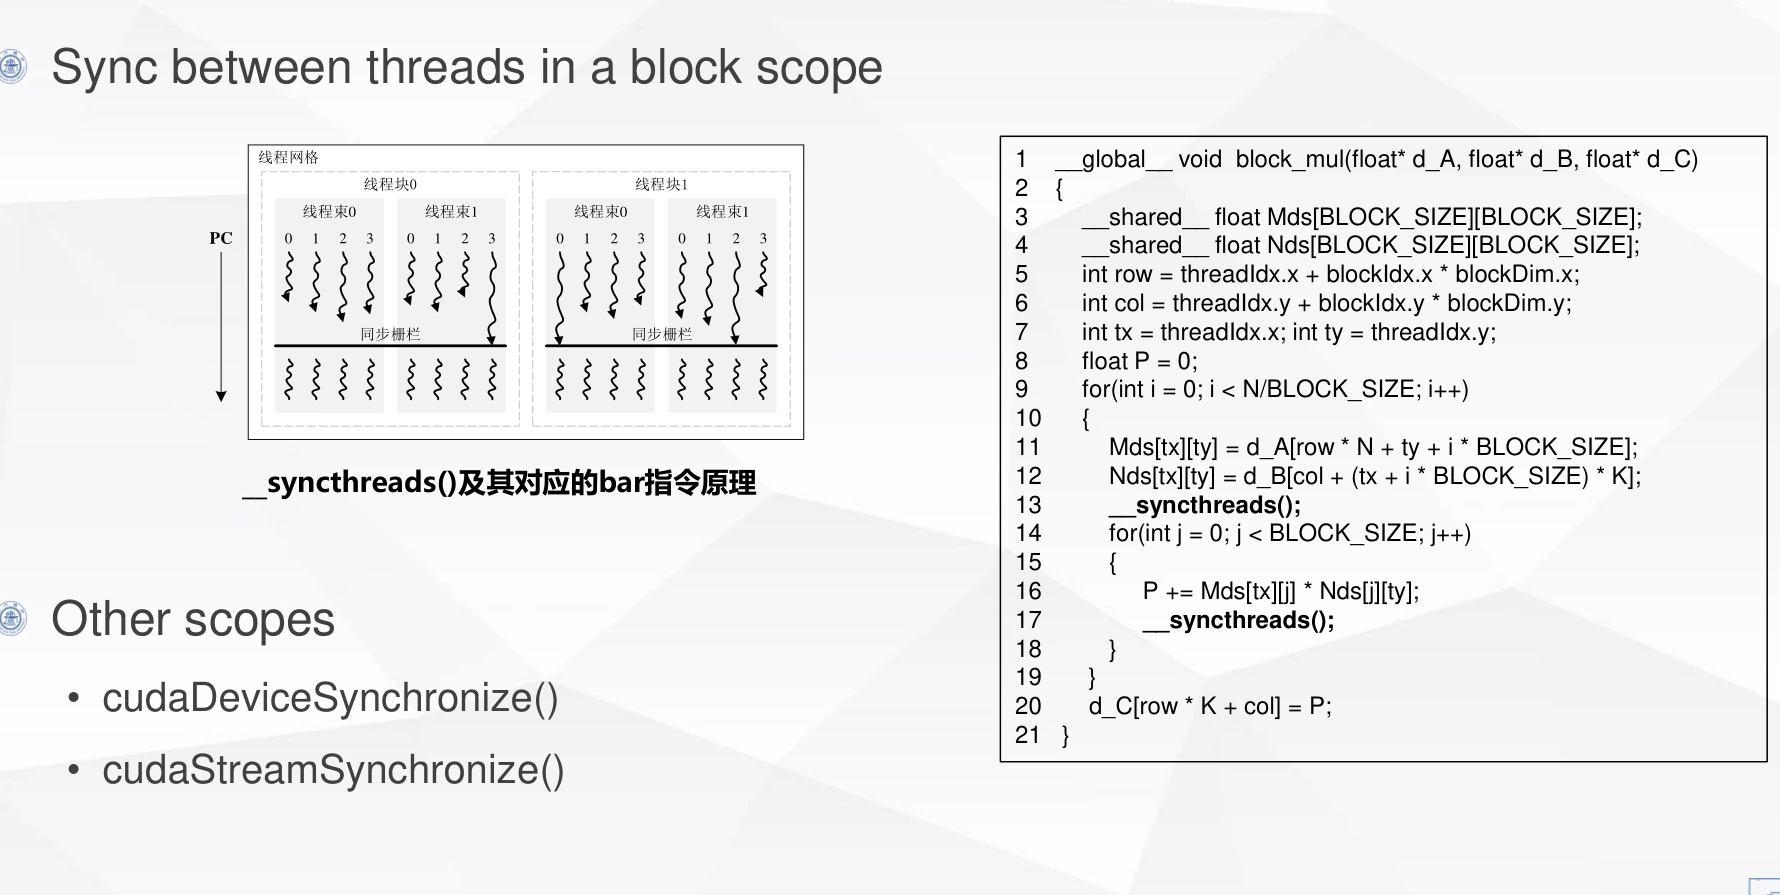
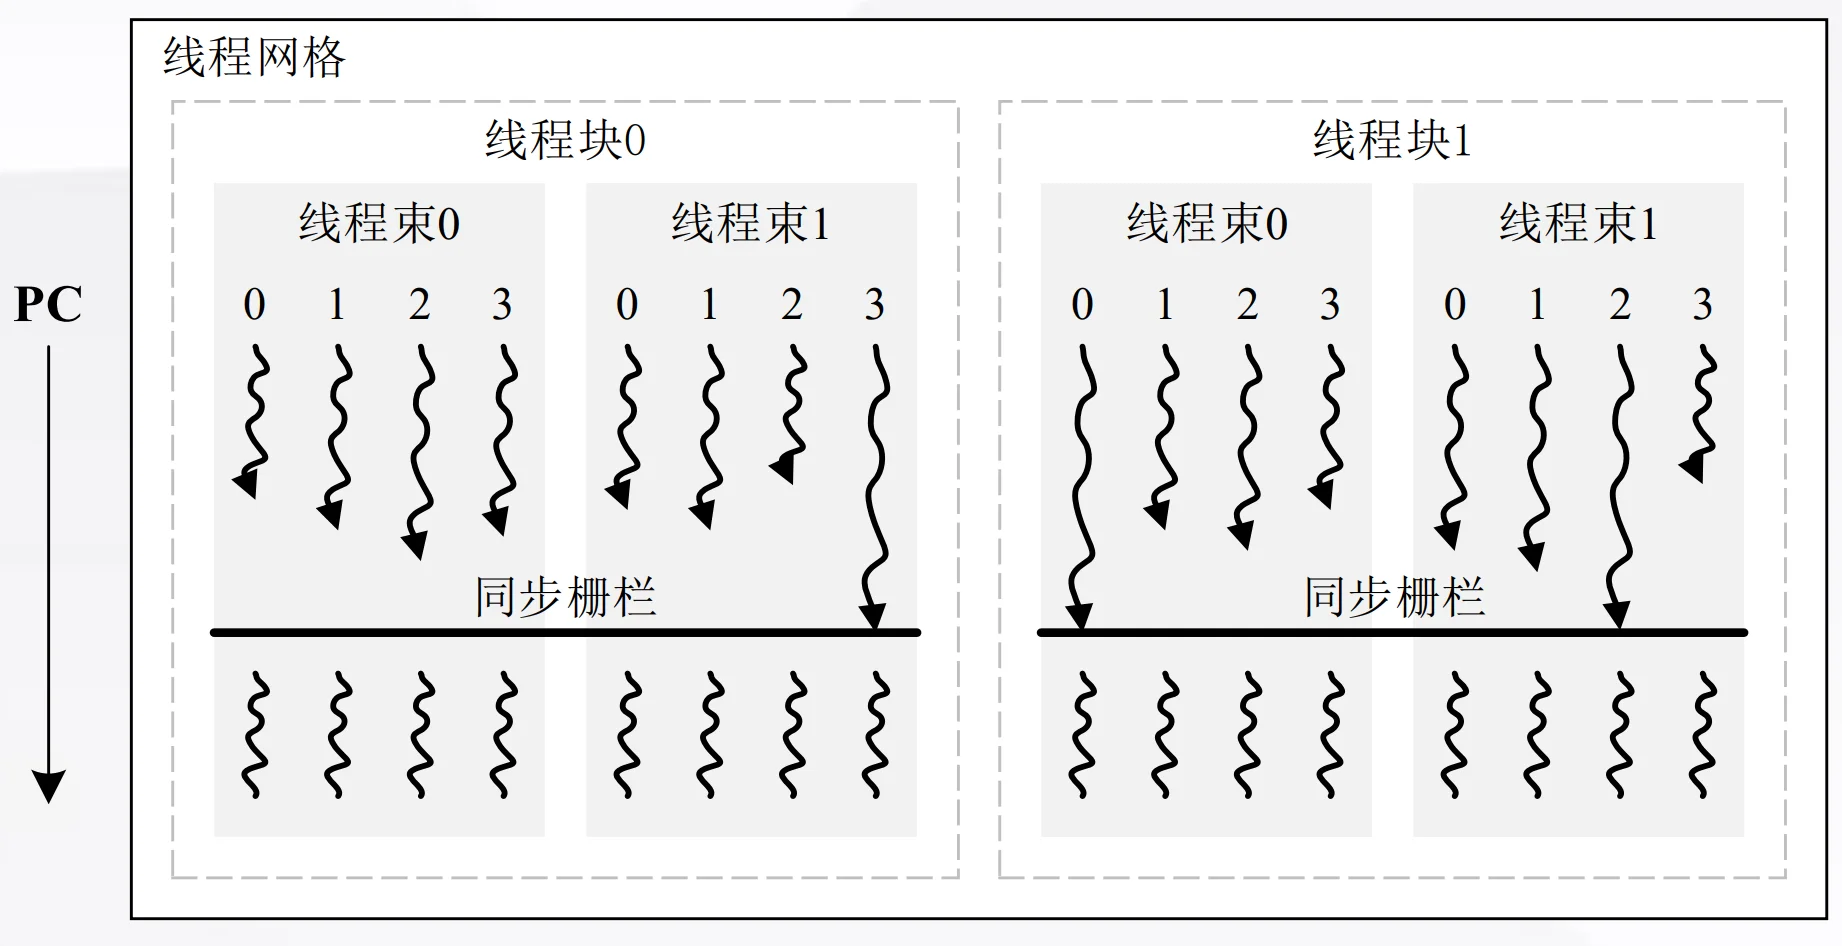
update ntoes

diff --git a/docs/me/DIC/PU/gpgpu2_programming_model/index.md b/docs/me/DIC/PU/gpgpu2_programming_model/index.md
@@ -322,7 +322,9 @@ One kernel with 64 regs/thread and 8KB shm/TB, 128 threads/TB
 
 分别看三个主要限制：
 
-1. **Register file 限制**
+**(1) Register file 限制**
+
+<span style="color: #8B0000;">每个 SM 的 RF 数量固定，每个 thread 分配的 RF 数 VS 可驻留的 thread 数</span>
 
 ```text
 65536 regs / 64 regs/thread = 1024 threads
@@ -331,7 +333,9 @@ One kernel with 64 regs/thread and 8KB shm/TB, 128 threads/TB
 
 也就是说，如果每个 thread 要用 64 个 register，那么 register file 最多支持 `1024` 个 thread 同时驻留；每个 TB 有 `128` 个 thread，因此最多驻留 `8` 个 TB。
 
-2. **Shared memory 限制**
+**(2) Shared memory 限制**
+
+<span style="color: #8B0000;">每个 SM 的 shared memory 总量固定，每个 block 分配的 shared memory VS 可驻留的 thread block 数</span>
 
 ```text
 96KB shm / 8KB shm per TB = 12 TBs
@@ -339,7 +343,9 @@ One kernel with 64 regs/thread and 8KB shm/TB, 128 threads/TB
 
 如果每个 TB 需要 8KB shared memory，那么 shared memory 最多支持 `12` 个 TB 同时驻留。
 
-3. **最大线程数限制**
+**(3) 最大线程数限制**
+
+<span style="color: #8B0000;">SM 限定的最大 TB 数 VS SM 限定的最大 thread 数以及每个 TB 的 thread 数</span>
 
 ```text
 2048 threads / 128 threads/TB = 16 TBs
@@ -361,17 +367,20 @@ min(8, 12, 16, 32) = 8 TBs
 
 ### 2.4 Synchronization
 
-并行程序需要同步，是因为多个 thread 之间经常存在数据依赖：一个 thread 先写入 shared memory，另一个 thread 后续要读取这个结果。如果没有同步，后读的 thread 可能在数据还没写完时就开始读取，得到旧值或未定义值。
+并行程序需要同步，是因为多个 thread 之间经常存在数据依赖：**一个 thread 先写入 shared memory，另一个 thread 后续要读取这个结果**。如果没有同步，后读的 thread 可能在数据还没写完时就开始读取，得到旧值或未定义值。
 
-CUDA 中最基础的同步方式是 block scope 内的同步：
+#### 2.4.1 Thread block 内同步
+
+CUDA 中**最基础的同步方式是 block scope 内的同步**：
 
 ```cpp
 __syncthreads();
 ```
 
-`__syncthreads()` 的含义是：同一个 thread block 内的所有 thread 都必须到达这个同步点，之后这些 thread 才能继续向下执行。课件图里画的同步栅栏（barrier）就是这个意思：先到的 warp / thread 会在 barrier 前等待，直到 block 内其他 thread 也到达。
+`__syncthreads()` 的含义是：**同一个 thread block 内的所有 thread** 都必须到达这个同步点，之后这些 thread 才能继续向下执行。下图里画的同步栅栏（barrier）就是这个意思：先到的 warp / thread 会在 barrier 前等待，直到 block 内其他 thread 也到达。
 
 ![CUDA synchronization](./assets/synchronization.webp)
+
 
 需要注意它的作用域：
 
@@ -379,7 +388,7 @@ __syncthreads();
 - 它不能同步不同 thread block，因为不同 block 可能被调度到不同 SM 上，甚至不一定同时驻留
 - 对应到底层实现，可以理解为 CUDA 编译到类似 `bar` 的同步栅栏指令
 
-课件中的矩阵乘法片段展示了为什么 shared memory 常常需要和同步一起使用：
+下面的矩阵乘法片段展示了为什么 shared memory 常常需要和同步一起使用：
 
 ```cpp
 __shared__ float Mds[BLOCK_SIZE][BLOCK_SIZE];
@@ -390,13 +399,13 @@ Nds[tx][ty] = d_B[col + (tx + i * BLOCK_SIZE) * K];
 __syncthreads();
 ```
 
-这里每个 thread 负责把一部分 `A` 和 `B` 从 global memory 搬到 shared memory。只有当 block 内所有 thread 都完成搬运之后，后面的计算：
+这里每个 thread 负责把一部分 `A` 和 `B` 从 global memory 搬到 shared memory。**只有当 block 内所有 thread 都完成搬运之后**，后面的计算：
 
 ```cpp
 P += Mds[tx][j] * Nds[j][ty];
 ```
 
-才可以安全读取完整的 tile。因此第一处 `__syncthreads()` 是为了保证 shared memory 中的 `Mds` 和 `Nds` 已经被整个 block 填好。
+**才可以安全读取完整的 tile**。因此第一处 `__syncthreads()` 是为了保证 shared memory 中的 `Mds` 和 `Nds` 已经被整个 block 填好。
 
 代码中第二处同步：
 
@@ -407,17 +416,13 @@ for (int j = 0; j < BLOCK_SIZE; j++) {
 }
 ```
 
-从课件要表达的角度看，它强调的是：当多个 thread 共享同一块 shared memory，并且后续迭代可能复用或覆盖这些 shared memory 数据时，需要通过同步保证所有 thread 的读取和写入阶段不会交错。更常见的 tiled matrix multiplication 写法通常是在完成整个 `j` 循环之后、进入下一轮 tile 加载之前同步一次，避免下一轮加载覆盖当前轮还没读完的数据。
+它强调的是：当多个 thread 共享同一块 shared memory，并且后续迭代可能复用或覆盖这些 shared memory 数据时，**需要通过同步保证所有 thread 的读取和写入阶段不会交错**。更常见的 tiled matrix multiplication 写法通常是在完成整个 `j` 循环之后、进入下一轮 tile 加载之前同步一次，避免下一轮加载覆盖当前轮还没读完的数据。
+
+#### 2.4.2 其他作用域的同步
 
 除了 block 内同步，CUDA 还提供 host 端看到的更大作用域同步：
 
-- `cudaDeviceSynchronize()`：等待当前 device 上前面提交的工作完成。它是 device 级别的 host-device 同步，常用于 kernel launch 之后检查错误、计时或确保结果已经完成。
-- `cudaStreamSynchronize(stream)`：等待指定 stream 中前面提交的工作完成。它只同步某一个 stream，相比 `cudaDeviceSynchronize()` 作用域更小，更适合保留其他 stream 的并发执行。
+- `cudaDeviceSynchronize()`：等待当前 device 上前面提交的工作完成。它是 **device 级别的 host-device 同步**，常用于 **kernel launch 之后**检查错误、计时或确保结果已经完成。
+- `cudaStreamSynchronize(stream)`：等待指定 stream 中前面提交的工作完成。**它只同步某一个 stream**，相比 `cudaDeviceSynchronize()` 作用域更小，更适合保留其他 stream 的并发执行。
 
-总结一下：
-
-- block 内线程协作使用 shared memory 时，通常需要 `__syncthreads()`
-- host 想等待整个 device 的任务完成，用 `cudaDeviceSynchronize()`
-- host 只想等待某个 stream 的任务完成，用 `cudaStreamSynchronize()`
-
-
+## III. Summary of Thread Model